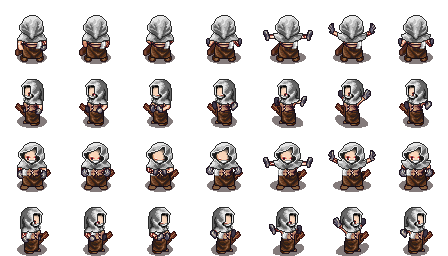
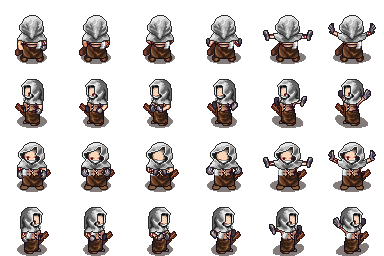
Spellcast-Animation für Fireball Protect! Action mit rechter Maustaste halten auslösen (will jemand ein Schutzfeld um den Character zeichnen? :) ) Waffen werden Animations zugewiesen (man könnte auch Sounds den Waffen zuweisen)

diff --git a/Content/Core/Entities/Creatures/Player/Player.cs b/Content/Core/Entities/Creatures/Player/Player.cs
@@ -128,8 +128,6 @@ namespace _2DRoguelike.Content.Core.Entities.ControllingPlayer
             }
         }
 
-
-
         public Player(Vector2 position, int maxHealthPoints, float movingSpeed, float attackCooldown = 0.2f) : base(position, maxHealthPoints, attackCooldown, movingSpeed)
         {
 
@@ -172,56 +170,62 @@ namespace _2DRoguelike.Content.Core.Entities.ControllingPlayer
             const bool NO_LOOP = false;
             const bool PRIORITIZED = true;
             const bool REVERSE = true;
-            const float frameSpeed = 0.09f;
+            const float FRAME_SPEED = 0.09f;
             float tmpFrameSpeed;
             animations = new Dictionary<string, Animation>()
             {
                 // Idle
-                {"IdleUp", new Animation(TextureManager.Player_Idle,0,6,tmpFrameSpeed=frameSpeed*2.5f)},
+                {"IdleUp", new Animation(TextureManager.Player_Idle,0,6,tmpFrameSpeed=FRAME_SPEED*2.5f)},
                 {"IdleLeft", new Animation(TextureManager.Player_Idle,1,6,tmpFrameSpeed)},
                 {"IdleDown", new Animation(TextureManager.Player_Idle,2,6,tmpFrameSpeed)},
                 {"IdleRight", new Animation(TextureManager.Player_Idle,3,6,tmpFrameSpeed)},
                 
                 // Laufbewegung
-                {"WalkUp_Axe", new Animation(TextureManager.Player_Walk_Axe,0,9,tmpFrameSpeed=frameSpeed)},
+                {"WalkUp_Axe", new Animation(TextureManager.Player_Walk_Axe,0,9,tmpFrameSpeed=FRAME_SPEED)},
                 {"WalkLeft_Axe",new Animation(TextureManager.Player_Walk_Axe,1,9,tmpFrameSpeed)},
                 {"WalkDown_Axe", new Animation(TextureManager.Player_Walk_Axe,2,9,tmpFrameSpeed)},
                 {"WalkRight_Axe", new Animation(TextureManager.Player_Walk_Axe,3,9,tmpFrameSpeed)},
 
-                {"WalkUp_Fist", new Animation(TextureManager.Player_Walk_Fist,0,9,tmpFrameSpeed=frameSpeed)},
+                {"WalkUp_Fist", new Animation(TextureManager.Player_Walk_Fist,0,9,tmpFrameSpeed=FRAME_SPEED)},
                 {"WalkLeft_Fist",new Animation(TextureManager.Player_Walk_Fist,1,9,tmpFrameSpeed)},
                 {"WalkDown_Fist", new Animation(TextureManager.Player_Walk_Fist,2,9,tmpFrameSpeed)},
                 {"WalkRight_Fist", new Animation(TextureManager.Player_Walk_Fist,3,9,tmpFrameSpeed)},
 
-                {"WalkUp_Dagger", new Animation(TextureManager.Player_Walk_Dagger,0,9,tmpFrameSpeed=frameSpeed)},
+                {"WalkUp_Dagger", new Animation(TextureManager.Player_Walk_Dagger,0,9,tmpFrameSpeed=FRAME_SPEED)},
                 {"WalkLeft_Dagger",new Animation(TextureManager.Player_Walk_Dagger,1,9,tmpFrameSpeed)},
                 {"WalkDown_Dagger", new Animation(TextureManager.Player_Walk_Dagger,2,9,tmpFrameSpeed)},
                 {"WalkRight_Dagger", new Animation(TextureManager.Player_Walk_Dagger,3,9,tmpFrameSpeed)},
                 
                  // Melee-            
-                {"SlashUp_Axe", new Animation(TextureManager.Player_Slash_Axe,0,6,(tmpFrameSpeed=frameSpeed*0.5f), NO_LOOP, PRIORITIZED, REVERSE)},
+                {"SlashUp_Axe", new Animation(TextureManager.Player_Slash_Axe,0,6,(tmpFrameSpeed=FRAME_SPEED*0.5f), NO_LOOP, PRIORITIZED, REVERSE)},
                 {"SlashLeft_Axe",new Animation(TextureManager.Player_Slash_Axe,1,6,tmpFrameSpeed, NO_LOOP, PRIORITIZED, REVERSE)},
                 {"SlashDown_Axe", new Animation(TextureManager.Player_Slash_Axe,2,6,tmpFrameSpeed, NO_LOOP, PRIORITIZED, REVERSE)},
                 {"SlashRight_Axe", new Animation(TextureManager.Player_Slash_Axe,3,6,tmpFrameSpeed, NO_LOOP, PRIORITIZED, REVERSE)},
 
-                {"SlashUp_Dagger", new Animation(TextureManager.Player_Slash_Dagger,0,6,(tmpFrameSpeed=frameSpeed*0.5f), NO_LOOP, PRIORITIZED, REVERSE)},
+                {"SlashUp_Dagger", new Animation(TextureManager.Player_Slash_Dagger,0,6,(tmpFrameSpeed=FRAME_SPEED*0.5f), NO_LOOP, PRIORITIZED, REVERSE)},
                 {"SlashLeft_Dagger",new Animation(TextureManager.Player_Slash_Dagger,1,6,tmpFrameSpeed, NO_LOOP, PRIORITIZED, REVERSE)},
                 {"SlashDown_Dagger", new Animation(TextureManager.Player_Slash_Dagger,2,6,tmpFrameSpeed, NO_LOOP, PRIORITIZED, REVERSE)},
                 {"SlashRight_Dagger", new Animation(TextureManager.Player_Slash_Dagger,3,6,tmpFrameSpeed, NO_LOOP, PRIORITIZED, REVERSE)},
 
-                {"SlashUp_Fist", new Animation(TextureManager.Player_Slash_Fist,0,6,(tmpFrameSpeed=frameSpeed*0.5f), NO_LOOP, PRIORITIZED, REVERSE)},
+                {"SlashUp_Fist", new Animation(TextureManager.Player_Slash_Fist,0,6,(tmpFrameSpeed=FRAME_SPEED*0.5f), NO_LOOP, PRIORITIZED, REVERSE)},
                 {"SlashLeft_Fist",new Animation(TextureManager.Player_Slash_Fist,1,6,tmpFrameSpeed, NO_LOOP, PRIORITIZED, REVERSE)},
                 {"SlashDown_Fist", new Animation(TextureManager.Player_Slash_Fist,2,6,tmpFrameSpeed, NO_LOOP, PRIORITIZED, REVERSE)},
                 {"SlashRight_Fist", new Animation(TextureManager.Player_Slash_Fist,3,6,tmpFrameSpeed, NO_LOOP, PRIORITIZED, REVERSE)},
                 
                 // Pfeil Schießen
-                {"ShootUp", new Animation(TextureManager.Player_Shoot,0,13,(tmpFrameSpeed=frameSpeed*0.3f),NO_LOOP, PRIORITIZED)},
+                {"ShootUp", new Animation(TextureManager.Player_Shoot,0,13,(tmpFrameSpeed=FRAME_SPEED*0.3f),NO_LOOP, PRIORITIZED)},
                 {"ShootLeft",new Animation(TextureManager.Player_Shoot,1,13,tmpFrameSpeed, NO_LOOP, PRIORITIZED)},
                 {"ShootDown", new Animation(TextureManager.Player_Shoot,2,13,tmpFrameSpeed, NO_LOOP, PRIORITIZED)},
                 {"ShootRight", new Animation(TextureManager.Player_Shoot,3,13,tmpFrameSpeed, NO_LOOP, PRIORITIZED)},
 
+                 // Zauber-Animation
+                {"SpellcastUp", new Animation(TextureManager.Player_Spellcast,0,6,(tmpFrameSpeed=FRAME_SPEED*0.7f),NO_LOOP, PRIORITIZED)},
+                {"SpellcastLeft",new Animation(TextureManager.Player_Spellcast,1,6,tmpFrameSpeed, NO_LOOP, PRIORITIZED)},
+                {"SpellcastDown", new Animation(TextureManager.Player_Spellcast,2,6,tmpFrameSpeed, NO_LOOP, PRIORITIZED)},
+                {"SpellcastRight", new Animation(TextureManager.Player_Spellcast,3,6,tmpFrameSpeed, NO_LOOP, PRIORITIZED)},
+
                 // Todesanimation
-                {"Die", new Animation(TextureManager.Player_Hurt,0,6,frameSpeed*2f, NO_LOOP, PRIORITIZED)}
+                {"Die", new Animation(TextureManager.Player_Hurt,0,6,FRAME_SPEED*2f, NO_LOOP, PRIORITIZED)}
             };
             animationManager = new AnimationManager(this, animations["IdleDown"]);
         }
@@ -250,9 +254,14 @@ namespace _2DRoguelike.Content.Core.Entities.ControllingPlayer
 
         }
 
+
         public override Action DetermineAction()
         {
-            if (InputController.IsMouseButtonHeld() && !IsAttacking() && CanAttack())
+            if (InputController.IsRightMouseButtonHeld())
+                return new Protect(this);
+            else Invincible = false;
+
+            if (InputController.IsLeftMouseButtonPressed() && !IsAttacking() && CanAttack())
             // TODO: if(weapon.rangeAttack) return RangeAttack else return Melee ...
             {
                 if (CurrentWeapon is LongRange)
@@ -347,7 +356,7 @@ namespace _2DRoguelike.Content.Core.Entities.ControllingPlayer
                             canInteract = true;
                         }
                     }
-                    else if(interactableObject is WorldObject || interactableObject is NPCBase)
+                    else if (interactableObject is WorldObject || interactableObject is NPCBase)
                     {
                         // if its a worldobject or npc add it directly
                         // later maybe check if npc has finished dialog and if worldobject has been initialized
@@ -424,7 +433,10 @@ namespace _2DRoguelike.Content.Core.Entities.ControllingPlayer
         {
             return !IsAttacking() && !CurrentWeapon.InUsage();
         }
-
+        public override bool IsInvincible()
+        {
+            return base.IsInvincible() || Game1.gameSettings.godMode;
+        }
         public void UpdateCurrentWeaponPos()
         {
             // TEST

diff --git a/Content/Core/Entities/Creatures/Creature.cs b/Content/Core/Entities/Creatures/Creature.cs
@@ -6,8 +6,10 @@ using Microsoft.Xna.Framework;
 
 namespace _2DRoguelike.Content.Core.Entities
 {
-    public abstract class Creature: EntityBasis
+    public abstract class Creature : EntityBasis
     {
+        private bool invincible = false;    
+        public bool Invincible { get => invincible; set => invincible = value; }
         private bool hurtTimerStart;
         private float hurtTimer;
         private const int hurtTimerLimit = 2;
@@ -20,10 +22,10 @@ namespace _2DRoguelike.Content.Core.Entities
         // (bessere Alternative überlegen, damit nicht immer ein neues Attribut hinzugefügt werden muss)
         public readonly float attackTimespan;
         public float AttackTimeSpanTimer { get; set; }
-        
+
         // TODO: Einen ALLGEMEINEN attacking-Timer, damit nicht während eines Angriffes ein anderer Angriff gestartet werden kann
         // (die Angriffe haben aber dennoch eigene unabhängige Cooldowns (z.B. Melee hat kürzeren Cooldown))
-        
+
         public readonly float movingSpeed;
         public float SpeedModifier { get; set; }
         public bool dead;
@@ -35,8 +37,8 @@ namespace _2DRoguelike.Content.Core.Entities
             set
             {
                 base.Position = value;
-                hitbox.X = (int)(value.X + 17*ScaleFactor);
-                hitbox.Y = (int)(value.Y + 14*ScaleFactor);
+                hitbox.X = (int)(value.X + 17 * ScaleFactor);
+                hitbox.Y = (int)(value.Y + 14 * ScaleFactor);
 
                 if (animationManager != null)
                 {
@@ -45,7 +47,10 @@ namespace _2DRoguelike.Content.Core.Entities
             }
         }
 
-        public Creature(Vector2 position, int maxHealthPoints, float attackTimespan, float movingSpeed) : base(position){
+
+
+        public Creature(Vector2 position, int maxHealthPoints, float attackTimespan, float movingSpeed) : base(position)
+        {
 
             if (this is Player)
             {
@@ -55,7 +60,7 @@ namespace _2DRoguelike.Content.Core.Entities
             {
                 EntityManager.AddCreatureEntity(this);
             }
-            
+
             this.maxHealthPoints = maxHealthPoints;
             HealthPoints = maxHealthPoints;
             this.attackTimespan = attackTimespan;
@@ -75,35 +80,44 @@ namespace _2DRoguelike.Content.Core.Entities
             // TODO: attackExecution Timer implementieren. CooldownTimer ist fuer Weapons wichtig
             return AttackTimeSpanTimer <= attackTimespan;
         }
-        
+
         public override void Update(GameTime gameTime)
         {
             /** TODO: Vorerst wurde alles in Humanoid eingefügt
             Die Änderungen in Humanoid müssen bald teilweise hier eingefügt werden */
         }
 
+        public virtual bool IsInvincible() {
+            return Invincible || Game1.gameSettings.godMode;
+        }
+
         public void DeductHealthPoints(int damage)
         {
-            if (dead) return;
+            if (dead) 
+                return;
 
-            if(this is Player)
+            if (this is Player)
             {
-                if (Game1.gameSettings.godMode)
+                if (IsInvincible())
                 {
                     return;
                 }
                 SoundManager.PlayerHurt.Play(Game1.gameSettings.soundeffectsLevel, 0.1f, 0);
             }
 
-            HealthPoints -= damage;
-            if (HealthPoints <= 0)
+            if (!IsInvincible())
             {
-                Kill();
+                HealthPoints -= damage;
+                if (HealthPoints <= 0)
+                {
+                    Kill();
+                }
+                if (!dead)
+                {
+                    DisplayDamageTaken();
+                }
             }
-            if(!dead)
-            {
-                DisplayDamageTaken();
-            }
+
         }
 
         public void DisplayDamageTaken()
@@ -115,7 +129,7 @@ namespace _2DRoguelike.Content.Core.Entities
 
         public void RefreshDamageTakenTimer()
         {
-            if(hurtTimerStart)
+            if (hurtTimerStart)
             {
                 if (hurtTimer >= hurtTimerLimit)
                 {
@@ -129,7 +143,7 @@ namespace _2DRoguelike.Content.Core.Entities
         public void AddHealthPoints(int health)
         {
             HealthPoints += health;
-            if(HealthPoints > maxHealthPoints)
+            if (HealthPoints > maxHealthPoints)
             {
                 HealthPoints = maxHealthPoints;
             }

diff --git a/Content/Core/AssetsLoaders/EnemyAssetsLoader.cs b/Content/Core/AssetsLoaders/EnemyAssetsLoader.cs
@@ -41,9 +41,11 @@ namespace _2DRoguelike.Content.Core.AssetsLoaders
         public  Texture2D Wizard_Shoot { get; set; }
         public  Texture2D Wizard_Slash_Dagger { get; private set; }
         public  Texture2D Wizard_Slash_Fist { get; private set; }
+        public Texture2D Wizard_Spellcast { get; private set; }
         public  Texture2D Wizard_Walk_Cane { get; private set; }
         public  Texture2D Wizard_Walk_Dagger { get; private set; }
         public  Texture2D Wizard_Walk_Fist { get; private set; }
+
 
         public void Load(ContentManager content)
         {
@@ -77,6 +79,7 @@ namespace _2DRoguelike.Content.Core.AssetsLoaders
             Wizard_Shoot = content.Load<Texture2D>("Assets/Graphics/EnemyElements/Wizard/wizardSheet_shoot");
             Wizard_Slash_Dagger = content.Load<Texture2D>("Assets/Graphics/EnemyElements/Wizard/wizardSheet_slash_dagger");
             Wizard_Slash_Fist = content.Load<Texture2D>("Assets/Graphics/EnemyElements/Wizard/wizardSheet_slash_fist");
+            Wizard_Spellcast = content.Load<Texture2D>("Assets/Graphics/EnemyElements/Wizard/wizardSheet_spellcast");
             Wizard_Walk_Cane = content.Load<Texture2D>("Assets/Graphics/EnemyElements/Wizard/wizardSheet_walk_cane");
             Wizard_Walk_Dagger = content.Load<Texture2D>("Assets/Graphics/EnemyElements/Wizard/wizardSheet_walk_dagger");
             Wizard_Walk_Fist = content.Load<Texture2D>("Assets/Graphics/EnemyElements/Wizard/wizardSheet_walk_fist");

diff --git a/Content/Core/TextureManager.cs b/Content/Core/TextureManager.cs
@@ -17,7 +17,7 @@ namespace _2DRoguelike.Content.Core
         public static Texture2D Player_Slash_Axe { get; private set; }
         public static Texture2D Player_Slash_Dagger { get; private set; }
         public static Texture2D Player_Slash_Fist { get; private set; }
-
+        public static Texture2D Player_Spellcast { get; private set; }
         public static Texture2D Player_Walk_Axe { get; private set; }
         public static Texture2D Player_Walk_Dagger { get; private set; }
         public static Texture2D Player_Walk_Fist { get; private set; }
@@ -55,6 +55,8 @@ namespace _2DRoguelike.Content.Core
             Player_Slash_Axe = content.Load<Texture2D>("Assets/Graphics/PlayerElements/playerSheet_slash_axe");
             Player_Slash_Dagger = content.Load<Texture2D>("Assets/Graphics/PlayerElements/playerSheet_slash_dagger");
             Player_Slash_Fist = content.Load<Texture2D>("Assets/Graphics/PlayerElements/playerSheet_slash_fist");
+            Player_Spellcast =  content.Load<Texture2D>("Assets/Graphics/PlayerElements/playerSheet_spellcast");
+
 
             enemy.Load(content);
             ui.Load(content);

diff --git a/Content/Core/Entities/Creatures/Enemies/Wizard.cs b/Content/Core/Entities/Creatures/Enemies/Wizard.cs
@@ -73,6 +73,12 @@ namespace _2DRoguelike.Content.Core.Entities.Creatures.Enemies
                 {"ShootDown", new Animation(TextureManager.enemy.Wizard_Shoot,2,13,tmpFrameSpeed, NO_LOOP, PRIORITIZED)},
                 {"ShootRight", new Animation(TextureManager.enemy.Wizard_Shoot,3,13,tmpFrameSpeed, NO_LOOP, PRIORITIZED)},
 
+                // Zauber-Animation
+                {"SpellcastUp", new Animation(TextureManager.enemy.Wizard_Spellcast,0,7,(tmpFrameSpeed=FRAME_SPEED*0.7f),NO_LOOP, PRIORITIZED)},
+                {"SpellcastLeft",new Animation(TextureManager.enemy.Wizard_Spellcast,1,7,tmpFrameSpeed, NO_LOOP, PRIORITIZED)},
+                {"SpellcastDown", new Animation(TextureManager.enemy.Wizard_Spellcast,2,7,tmpFrameSpeed, NO_LOOP, PRIORITIZED)},
+                {"SpellcastRight", new Animation(TextureManager.enemy.Wizard_Spellcast,3,7,tmpFrameSpeed, NO_LOOP, PRIORITIZED)},
+
                 // Todesanimation
                 {"Die", new Animation(TextureManager.enemy.Wizard_Hurt,0,6,FRAME_SPEED*2f, NO_LOOP, PRIORITIZED)}
             };

diff --git a/Content/Core/Entities/AI/Actions/AnimationIdentifiers/ProtectAnimationIdentifier.cs b/Content/Core/Entities/AI/Actions/AnimationIdentifiers/ProtectAnimationIdentifier.cs
@@ -6,13 +6,12 @@ namespace _2DRoguelike.Content.Core.Entities.Actions
 {
     class ProtectAnimationIdentifier: AbilityAnimationIdentifier
     {
-        public ProtectAnimationIdentifier(params string[] animationIdentifiers) : base(animationIdentifiers) { 
+        public ProtectAnimationIdentifier(params string[] animationIdentifiers) : base(animationIdentifiers){ 
         }
         public override string ChooseAnimation(Humanoid CallingInstance)
         {
             // TODO: AnimationString bestimmen anhand von LineOfSight
-            throw new NotImplementedException();
+            return "Spellcast" + PrintLineOfSight(CallingInstance);
         }
-
     }
 }

diff --git a/Content/Core/Entities/AI/Actions/AnimationIdentifiers/MeleeAnimationIdentifier.cs b/Content/Core/Entities/AI/Actions/AnimationIdentifiers/MeleeAnimationIdentifier.cs
@@ -13,8 +13,9 @@ namespace _2DRoguelike.Content.Core.Entities.Actions
         public override string ChooseAnimation(Humanoid CallingInstance)
         {
             // Debug.WriteLine("Slash" + PrintLineOfSight(CallingInstance));
-            // TODO: AnimationString bestimmen anhand von LineOfSight
-            return "Slash" + PrintLineOfSight(CallingInstance) + "_" + CallingInstance.CurrentWeapon.ToString();
+            // TODO: AnimationString bestimmen anhand von Weapon Attribut
+
+            return CallingInstance.CurrentWeapon.GetAnimationType() + PrintLineOfSight(CallingInstance) + "_" + CallingInstance.CurrentWeapon.ToString();
         }
     }
 }

diff --git a/Content/Core/Entities/AI/Actions/Protect.cs b/Content/Core/Entities/AI/Actions/Protect.cs
@@ -16,11 +16,11 @@ namespace _2DRoguelike.Content.Core.Entities.Actions
         public override void UseAbility()
         {
             // TODO: Hier die Logik für den Ablauf einfügen
-            throw new NotImplementedException();
+            CallingInstance.Invincible = true;
         }
         public override void SetLineOfSight()
         {
-            throw new NotImplementedException();
+            
         }
     }
 }

diff --git a/Content/Core/Entities/AI/Actions/AnimationIdentifiers/RangeAttackAnimationIdentifier.cs b/Content/Core/Entities/AI/Actions/AnimationIdentifiers/RangeAttackAnimationIdentifier.cs
@@ -13,7 +13,7 @@ namespace _2DRoguelike.Content.Core.Entities.Actions
         public override string ChooseAnimation(Humanoid CallingInstance)
         {
             // TODO: AnimationString bestimmen anhand von MousePosition
-            return "Shoot" + PrintLineOfSight(CallingInstance);
+            return CallingInstance.CurrentWeapon.GetAnimationType() + PrintLineOfSight(CallingInstance);
         }
     }
 }

diff --git a/Content/Core/Items/InventoryItems/Weapons/FireballWeapon.cs b/Content/Core/Items/InventoryItems/Weapons/FireballWeapon.cs
@@ -24,6 +24,11 @@ namespace _2DRoguelike.Content.Core.Items.InventoryItems.Weapons
             new FireballProjectile(Owner, explosionDamageMultiplier);
         }
 
+        public override string GetAnimationType()
+        {
+            return "Spellcast";
+        }
+
         public override string ToString()
         {
             return "Fireball";

diff --git a/Content/Core/Items/InventoryItems/Weapons/BombWeapon.cs b/Content/Core/Items/InventoryItems/Weapons/BombWeapon.cs
@@ -20,6 +20,11 @@ namespace _2DRoguelike.Content.Core.Entities.Weapons
             new BombProjectile(Owner, 2.5f);
         }
 
+        public override string GetAnimationType()
+        {
+            return "Slash";
+        }
+
         public override string ToString()
         {
             return "Bomb";

diff --git a/Content/Core/Items/InventoryItems/Weapons/Dagger.cs b/Content/Core/Items/InventoryItems/Weapons/Dagger.cs
@@ -17,6 +17,11 @@ namespace _2DRoguelike.Content.Core.Entities.Weapons
             INVENTORY_SLOT = 1;
         }
 
+        public override string GetAnimationType()
+        {
+            return "Slash";
+        }
+
         public override string ToString()
         {
             return "Dagger";
